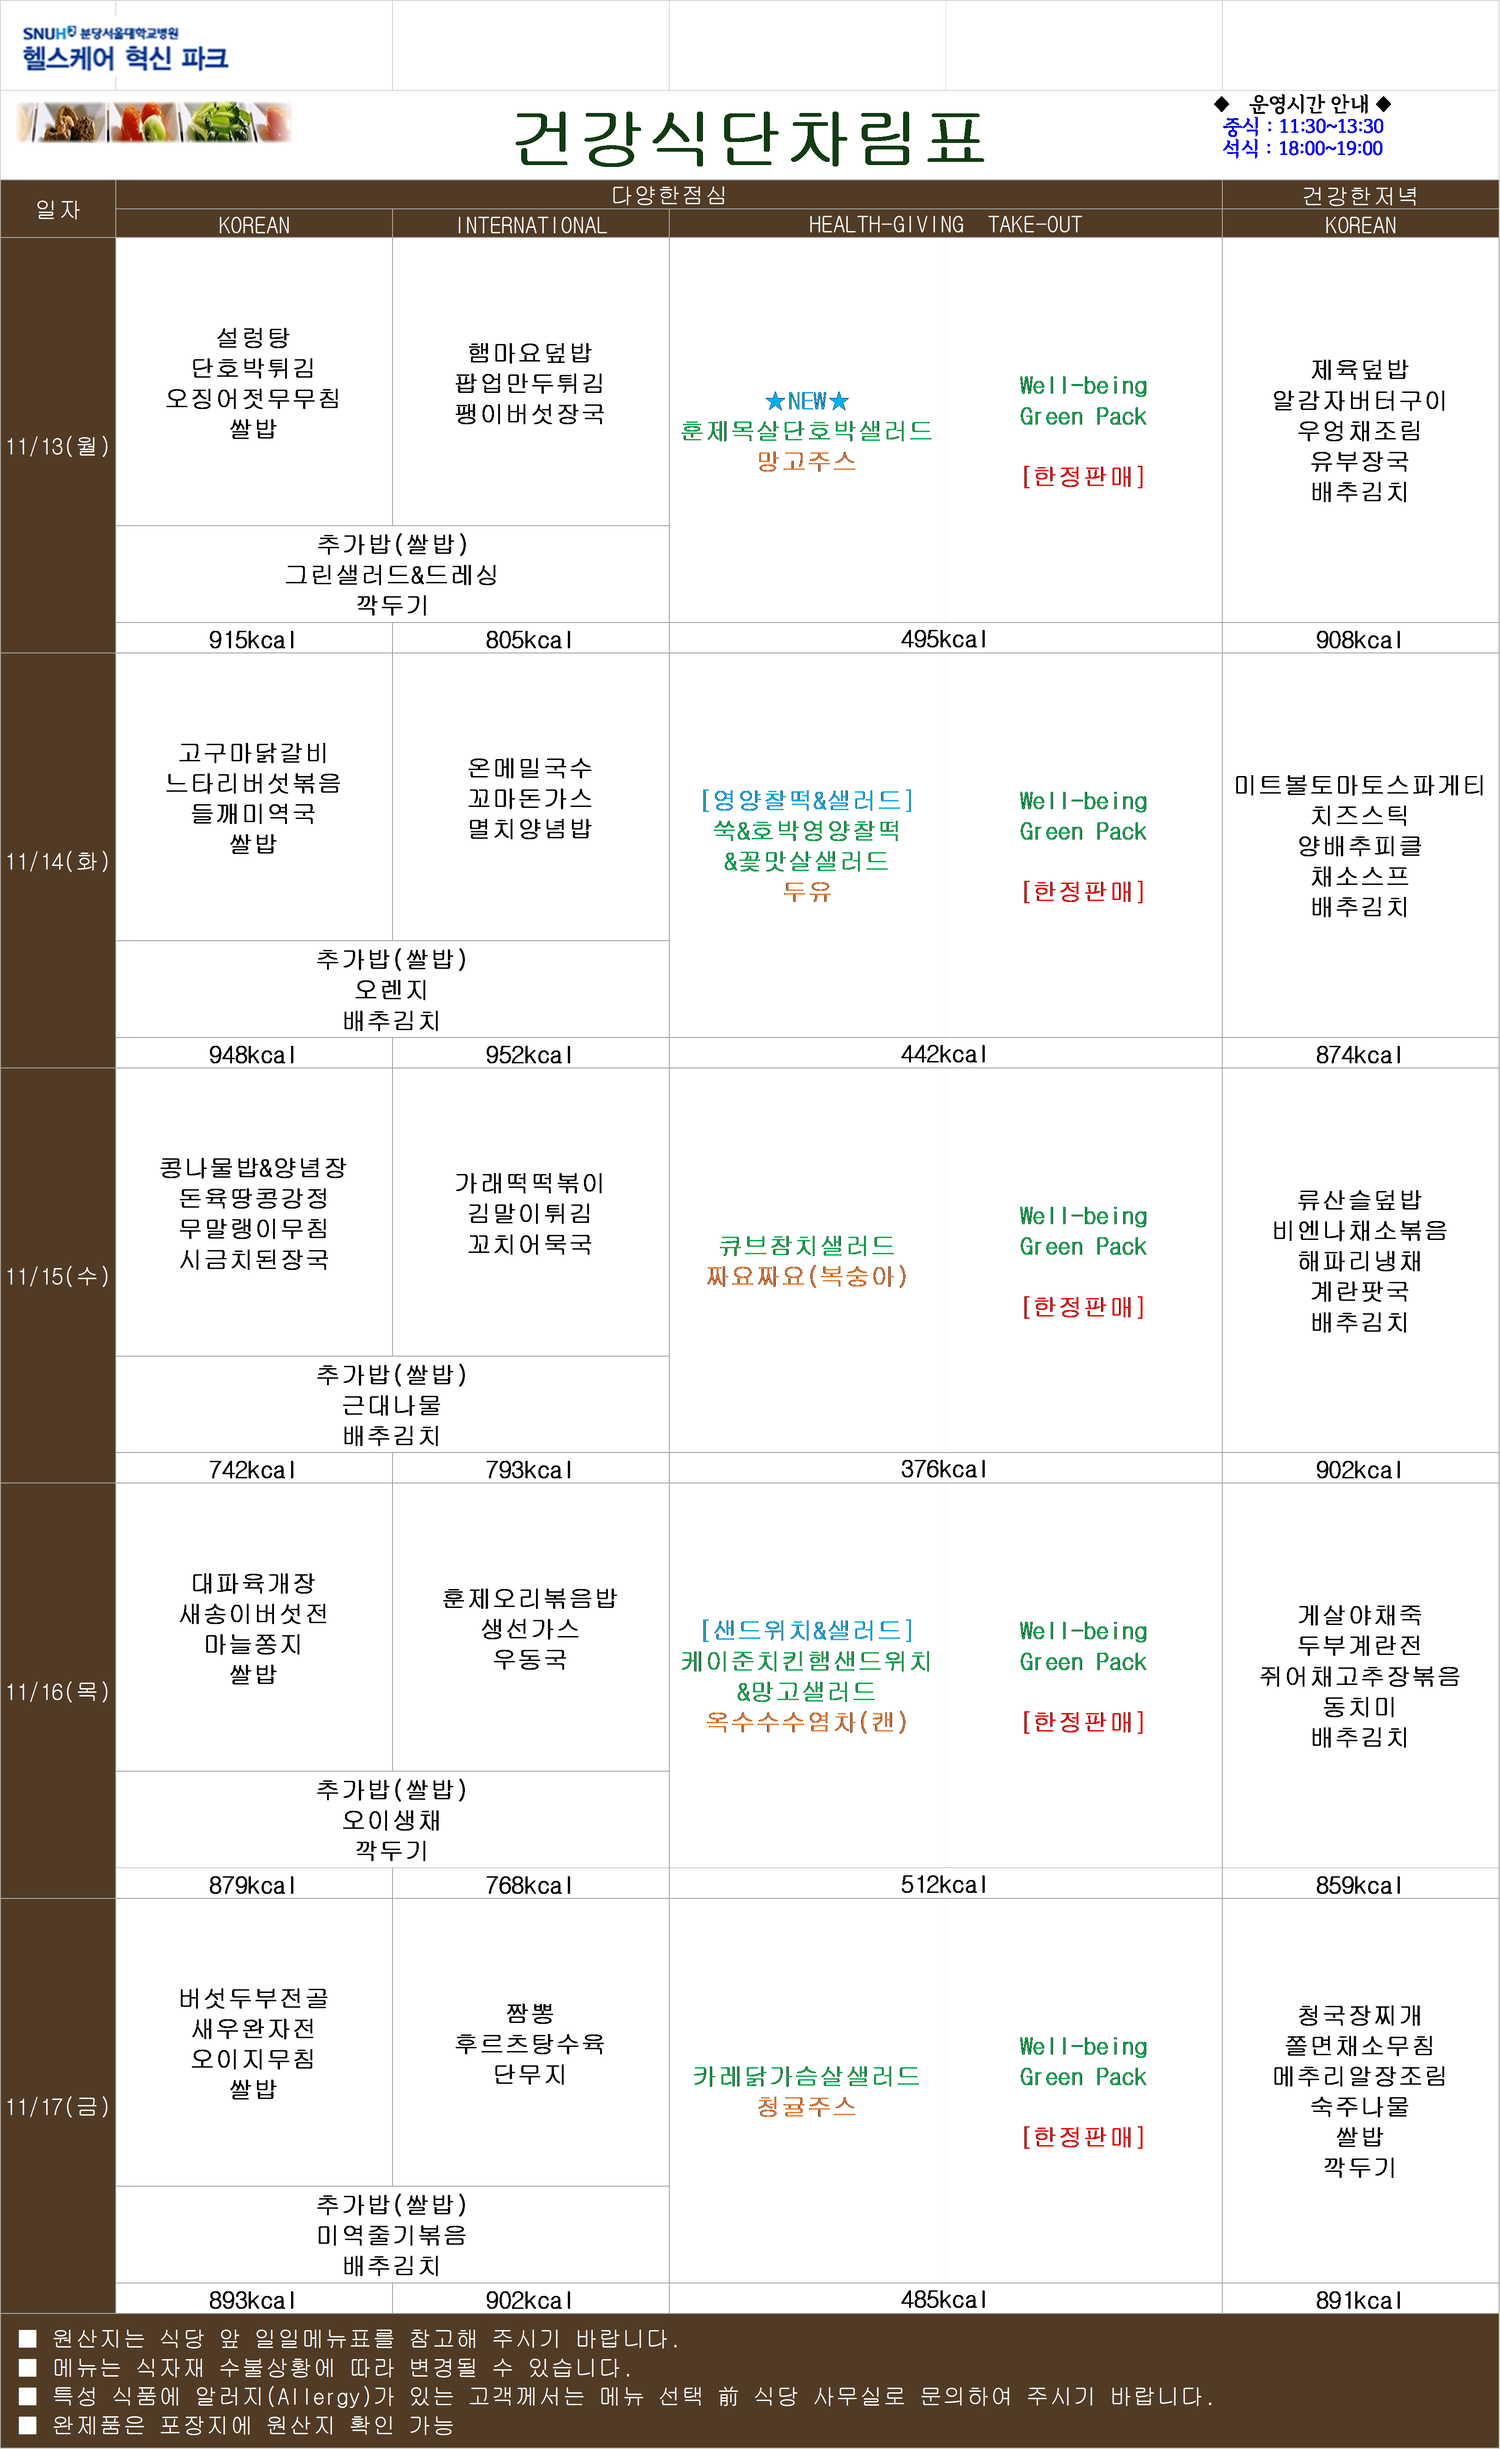
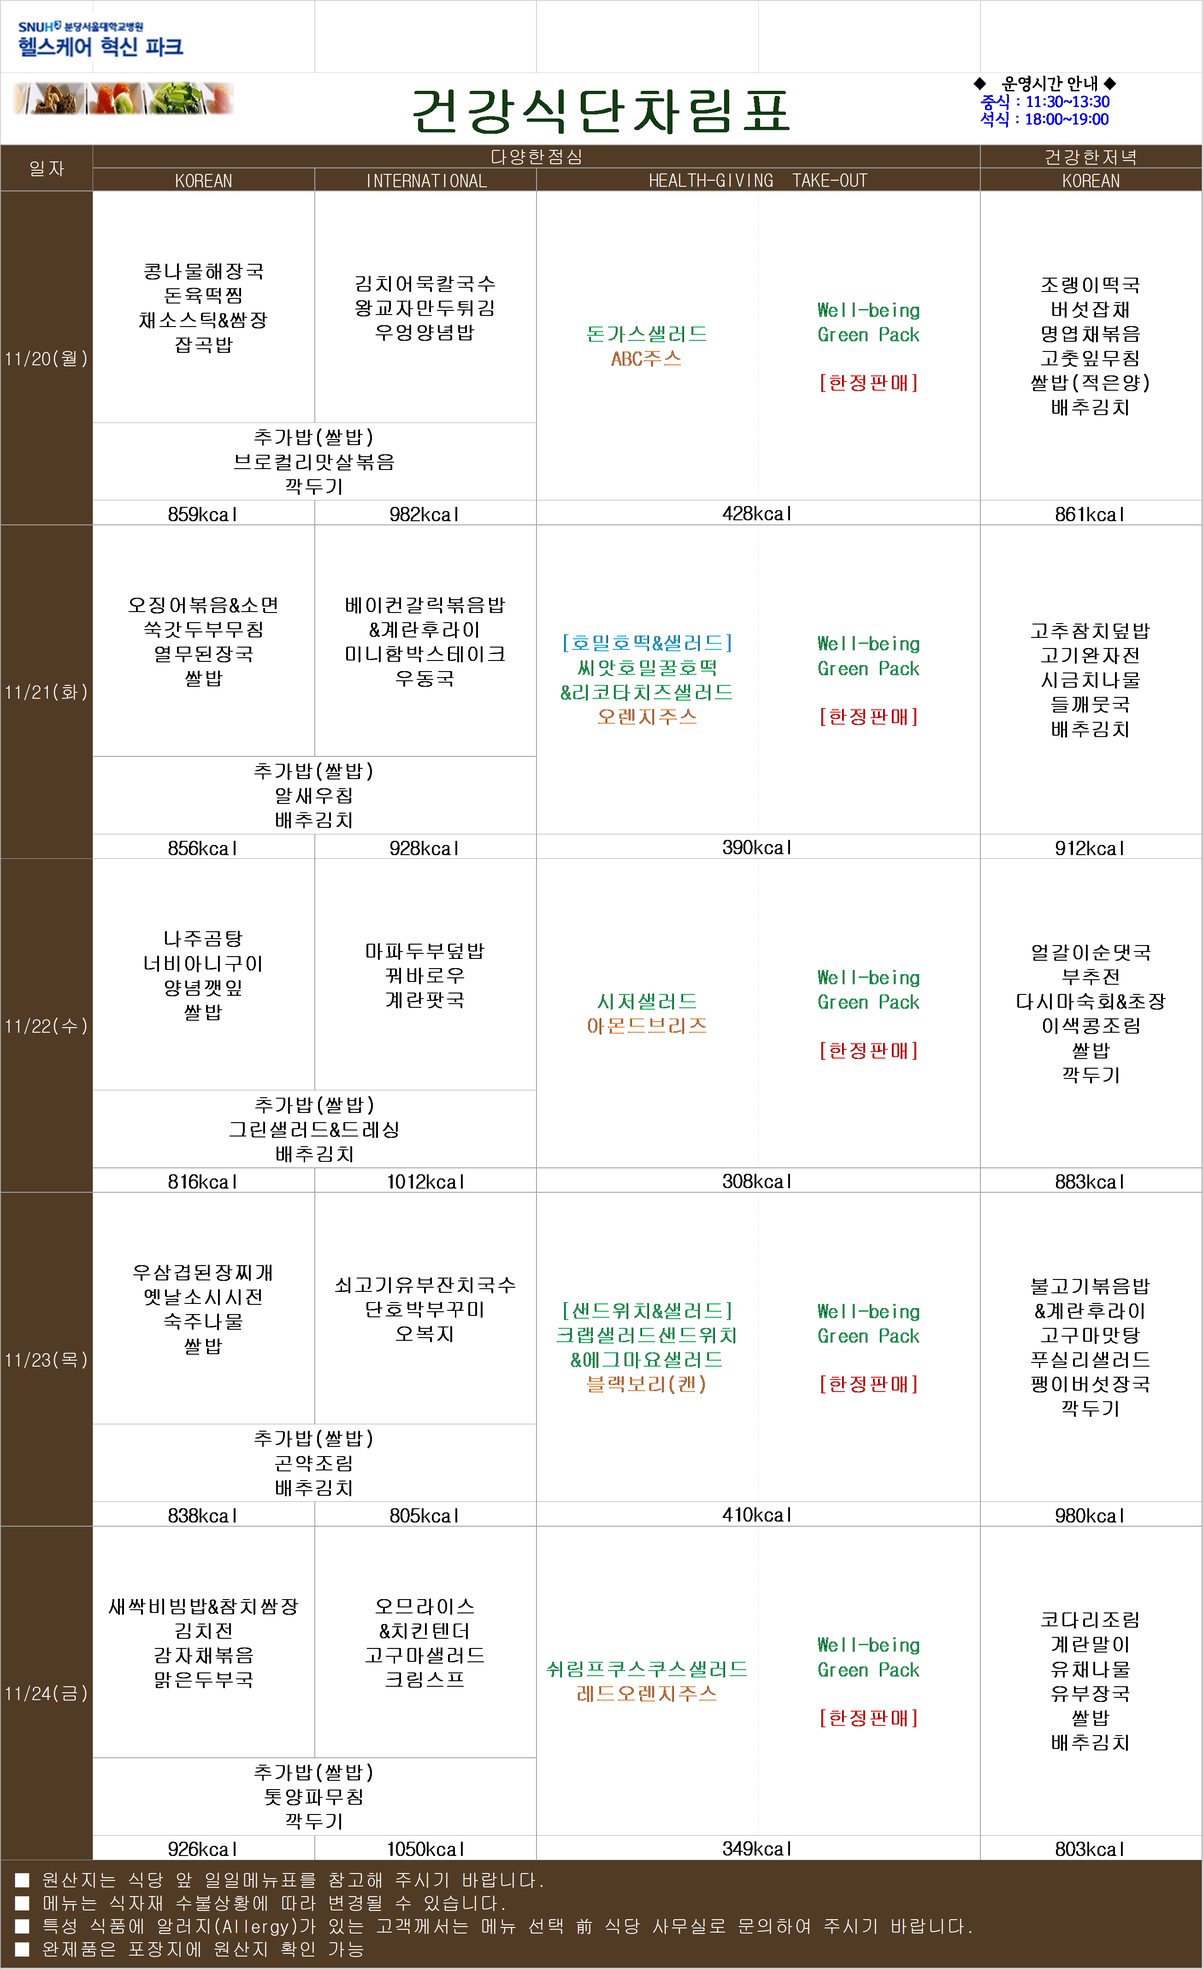
Add files via upload

diff --git a/6/index.html b/6/index.html
@@ -12,10 +12,10 @@
 <h2> 메뉴 업데이트는 주인장 여유가 되면 합니다. (이미지 확대해서 보세요) <br> </h2>
 
 <br>
-<h1> 11월 2주차 </h1>
+<h1> 11월 3주차 </h1>
 <img src="수술.png" width="100%">
 
-<h6> Last update 2023/11/13  </h6>  
+<h6> Last update 2023/11/20  </h6>  
 <h1 >맛있게 드세요.  </h1> 
 
 </body>

diff --git a/1/index.html b/1/index.html
@@ -13,11 +13,11 @@
 
 
 <br>
-<h1> 11월 2주차  </h1>
+<h1> 11월 3주차  </h1>
 <img src="1동.png" width="100%">
 
 
-<h6> Last update 2023/11/13  </h6>  
+<h6> Last update 2023/11/20  </h6>  
 <h1 >맛있게 드세요.  </h1> 
 
 </body>

diff --git a/2/index.html b/2/index.html
@@ -14,11 +14,11 @@
 
 
 <br>
-<h1> 11월 2주차  </h1>
+<h1> 11월 3주차  </h1>
 <img src="HIP.png" width="50%">
 
 
-<h6> Last update 2023/11/13  </h6>  
+<h6> Last update 2023/11/20  </h6>  
 <h1 >맛있게 드세요.  </h1>  
  
 </body>
